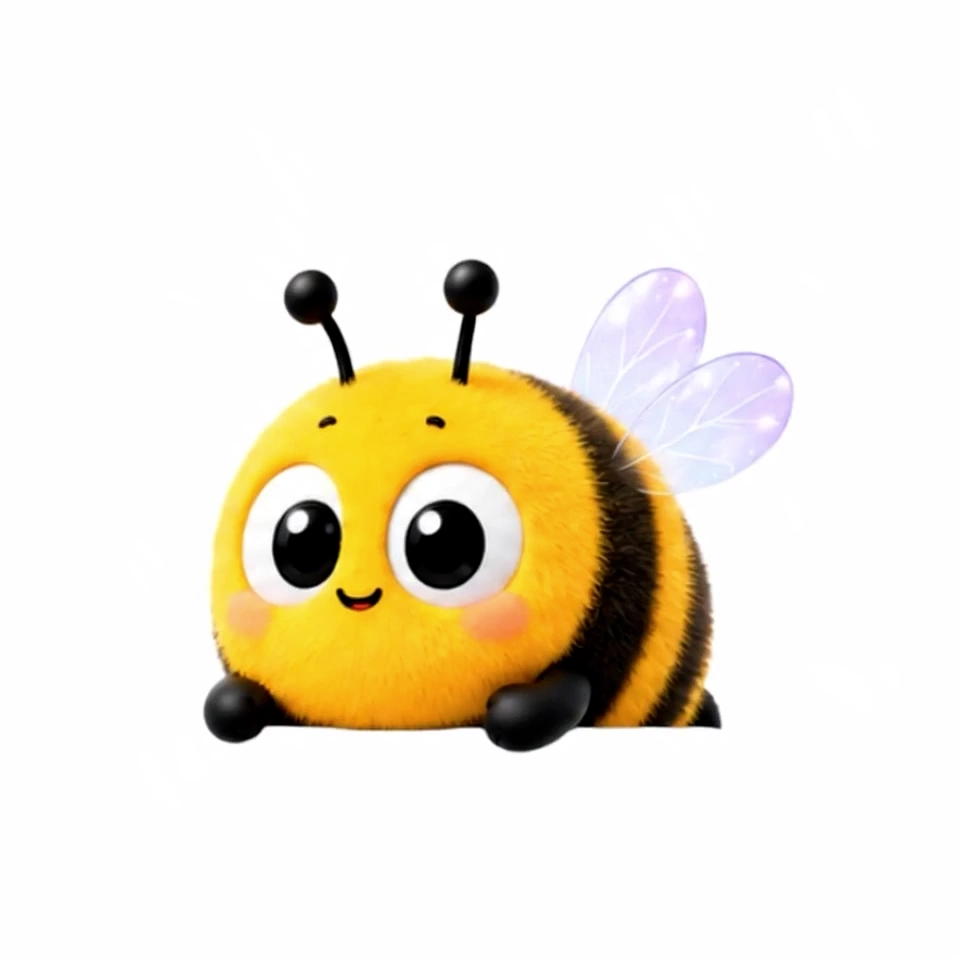
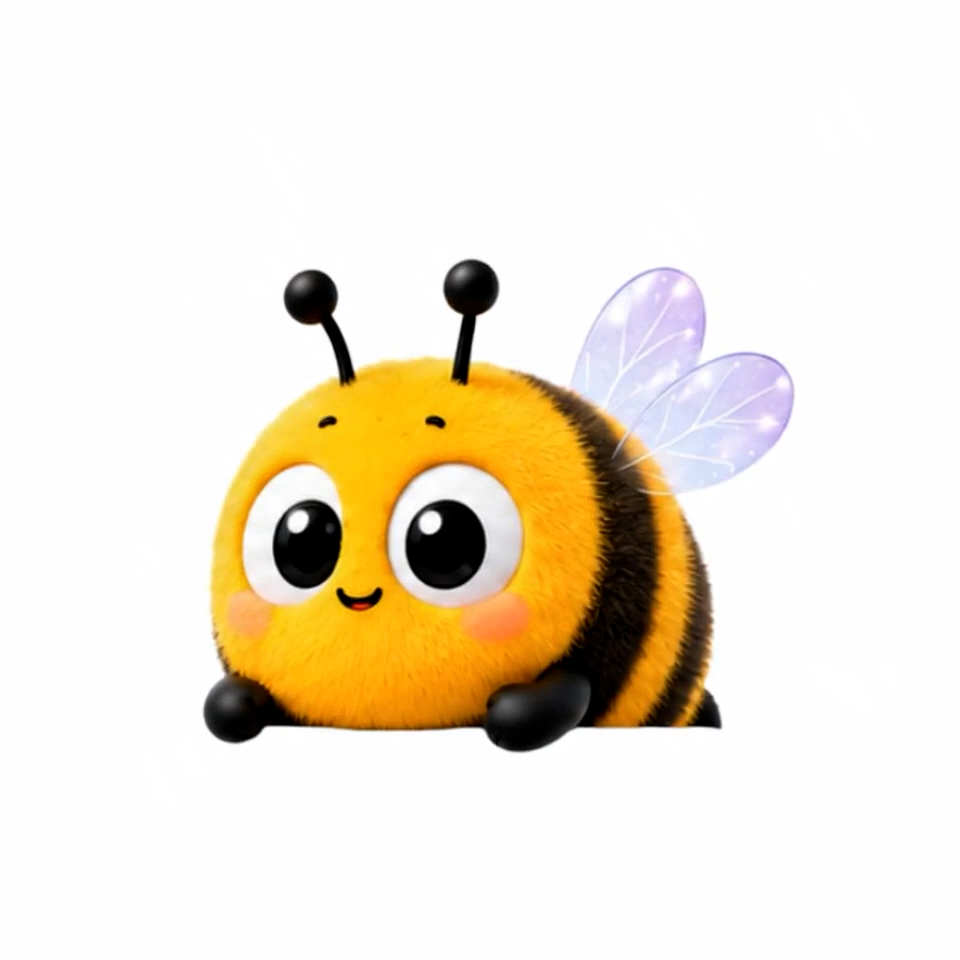
fix(web): 设置页搜索密钥改为可清空保存，工具模型配置支持删除并联动关闭开关；移除浏览器类型设置项；修复蜜蜂图片结尾帧变亮、蜜蜂动画时长不全的问题
# message auto-generated for no-merge-commit merge:
!6065 fix(web): 设置页搜索密钥改为可清空保存，工具模型配置支持删除并联动关闭开关；移除浏览器类型设置项；修复蜜蜂图片结尾帧变亮、蜜蜂动画时长不全的问题

From: @xiaoyao42

diff --git a/jiuwenswarm/channels/web/frontend/src/features/settings/modules/agent/AgentSettings.tsx b/jiuwenswarm/channels/web/frontend/src/features/settings/modules/agent/AgentSettings.tsx
@@ -22,14 +22,6 @@ import './AgentSettings.css';
 const keyFields = ['jina_api_key', 'bocha_api_key', 'perplexity_api_key', 'serper_api_key'] as const;
 const modalities = ['vision', 'audio', 'video'] as const;
 
-function isSearchKeyField(name: string): name is (typeof keyFields)[number] {
-  return keyFields.some((field) => field === name);
-}
-
-function isRequiredAgentConfigField(name: string): boolean {
-  return isSearchKeyField(name);
-}
-
 type SaveConfig = (updates: Record<string, string>, operation: string) => Promise<unknown>;
 
 function AgentConfigDialog({
@@ -63,17 +55,16 @@ function AgentConfigDialog({
     () =>
       fields.map((name) => {
         const key = name.includes('key');
-        const required = isRequiredAgentConfigField(name);
         return {
           name,
           label: t(`settingsPanel.fields.${name}.title`),
           component: 'input' as const,
           type: key ? ('password' as const) : ('text' as const),
+          required: true,
           passwordVisibilityLabels: key
             ? { show: t('settingsPanel.common.showValue'), hide: t('settingsPanel.common.hideValue') }
             : undefined,
           placeholder: t('config.enterValue'),
-          required,
         };
       }),
     [fields, t],
@@ -81,12 +72,15 @@ function AgentConfigDialog({
   const rules = useMemo(
     () =>
       Object.fromEntries(
-        fields.filter(isRequiredAgentConfigField).map((name) => [
+        fields.map((name) => [
           name,
           [
             {
+              trigger: 'blur' as const,
               validator: (value: unknown) =>
-                String(value ?? '').trim() ? undefined : t('settingsPanel.validation.required'),
+                typeof value === 'string' && value.trim().length > 0
+                  ? undefined
+                  : t('settingsPanel.validation.required'),
             },
           ],
         ]),
@@ -124,7 +118,7 @@ function AgentConfigDialog({
         onConfirm={() => void confirm()}
         onCancel={requestClose}
       >
-        <Form form={form} items={items} rules={rules} optionalText={t('common.optional')} testIdPrefix="settings-agent-config-dialog" />
+        <Form form={form} items={items} rules={rules} optionalText={t('common.optional')} />
         {saveError ? (
           <div className="settings-page__error" role="alert" data-testid="settings-agent-config-dialog-error">
             {saveError}
@@ -147,7 +141,23 @@ export function AgentSearchSettings({ disabled }: SettingsCustomItemProps) {
   const { isConnected } = useSettingsServices();
   const { values, save } = useSettingsSource();
   const [dialog, setDialog] = useState<{ titleKey: string; fields: readonly string[] } | null>(null);
+  const [clearing, setClearing] = useState<{ name: string; titleKey: string } | null>(null);
+  const [clearingBusy, setClearingBusy] = useState(false);
+  const [clearError, setClearError] = useState('');
   const saveConfig: SaveConfig = (updates, operation) => save(updates, operation);
+  const confirmClear = async () => {
+    if (!clearing) return;
+    setClearingBusy(true);
+    setClearError('');
+    try {
+      await save({ [clearing.name]: '' }, clearing.titleKey);
+      setClearing(null);
+    } catch (error) {
+      setClearError(error instanceof Error ? error.message : t('settingsPanel.feedback.saveFailed'));
+    } finally {
+      setClearingBusy(false);
+    }
+  };
   return (
     <>
       {keyFields.map((name) => (
@@ -164,11 +174,37 @@ export function AgentSearchSettings({ disabled }: SettingsCustomItemProps) {
           >
             {t('settingsPanel.common.configure')}
           </Button>
+          {values[name] ? (
+            <Button
+              disabled={disabled || !isConnected}
+              onClick={() => {
+                setClearError('');
+                setClearing({ name, titleKey: `settingsPanel.fields.${name}.title` });
+              }}
+              data-testid="settings-agent-key-clear-btn"
+              data-variant={name}
+            >
+              {t('settingsPanel.common.clear')}
+            </Button>
+          ) : null}
         </SettingRow>
       ))}
       {dialog ? (
         <AgentConfigDialog {...dialog} config={values} save={saveConfig} onClose={() => setDialog(null)} />
       ) : null}
+      <SettingsConfirmDialog
+        open={clearing !== null}
+        title={clearing ? t('settingsPanel.dialog.clearTitle', { name: t(clearing.titleKey) }) : ''}
+        message={clearing ? t('settingsPanel.dialog.clearConfirm', { name: t(clearing.titleKey) }) : ''}
+        confirming={clearingBusy}
+        error={clearError || undefined}
+        confirmLabel={t('settingsPanel.common.clear')}
+        confirmVariant="danger"
+        onConfirm={() => void confirmClear()}
+        onCancel={() => {
+          if (!clearingBusy) setClearing(null);
+        }}
+      />
     </>
   );
 }
@@ -181,10 +217,35 @@ export function AgentMediaSettings({ disabled }: SettingsCustomItemProps) {
     modality: MediaCapabilityModality;
     enableOnSave: boolean;
   } | null>(null);
+  const [deleteTarget, setDeleteTarget] = useState<MediaCapabilityModality | null>(null);
+  const [deleting, setDeleting] = useState(false);
+  const [deleteError, setDeleteError] = useState('');
   const [restartRequired, setRestartRequired] = useState(false);
   const saveConfig: SaveConfig = (updates, operation) => save(updates, operation);
   const handleSaveResult = (result: unknown) => {
     setRestartRequired(!wasConfigAppliedWithoutRestart(result));
+  };
+
+  const confirmDeleteModel = async () => {
+    if (!deleteTarget) return;
+    const enabledField = mediaCapabilityEnabledField(deleteTarget);
+    const updates: Record<string, string> = Object.fromEntries(
+      mediaCapabilityPersistenceFields(deleteTarget).map((field) => [field, '']),
+    );
+    if (parseConfigBoolean(values[enabledField])) {
+      updates[enabledField] = toConfigBoolean(false);
+    }
+    setDeleting(true);
+    setDeleteError('');
+    try {
+      const result = await saveConfig(updates, `settingsPanel.agent.${deleteTarget}`);
+      handleSaveResult(result);
+      setDeleteTarget(null);
+    } catch (error) {
+      setDeleteError(error instanceof Error ? error.message : t('settingsPanel.feedback.saveFailed'));
+    } finally {
+      setDeleting(false);
+    }
   };
 
   const toggleCapability = async (modality: MediaCapabilityModality, nextEnabled: boolean) => {
@@ -241,6 +302,18 @@ export function AgentMediaSettings({ disabled }: SettingsCustomItemProps) {
                       data-testid="settings-agent-modality-edit-btn"
                       data-variant={modality}
                     />
+                    <Button
+                      variant="quiet"
+                      size="sm"
+                      icon={<settingsActionIcons.delete aria-hidden />}
+                      title={t('common.delete')}
+                      aria-label={`${t('common.delete')} ${name}`}
+                      disabled={disabled || !isConnected || busy}
+                      onClick={() => {
+                        setDeleteError('');
+                        setDeleteTarget(modality);
+                      }}
+                    />
                   </div>
                 </div>
               ) : null
@@ -267,6 +340,21 @@ export function AgentMediaSettings({ disabled }: SettingsCustomItemProps) {
           onClose={() => setDialog(null)}
         />
       ) : null}
+      <SettingsConfirmDialog
+        open={deleteTarget !== null}
+        title={t('settingsPanel.agent.deleteModelTitle')}
+        message={
+          deleteTarget
+            ? t('settingsPanel.agent.deleteModelConfirm', { name: t(`settingsPanel.agent.${deleteTarget}`) })
+            : ''
+        }
+        confirming={deleting}
+        error={deleteError}
+        onConfirm={() => void confirmDeleteModel()}
+        onCancel={() => {
+          if (!deleting) setDeleteTarget(null);
+        }}
+      />
     </>
   );
 }

diff --git a/jiuwenswarm/channels/web/frontend/src/App.tsx b/jiuwenswarm/channels/web/frontend/src/App.tsx
@@ -3323,35 +3323,37 @@ const showWorkspaceDivider = effectiveTeamAreaExpanded && !showConversationNotFo
           </div>
         )}
         {activeNav === 'connectorMarket' && (
-          <div className="app-section">
-            <ConnectorMarketPanel
-              applicationPlugins={applicationPlugins}
-              applicationPluginsLoading={applicationPluginState.loading}
-              applicationPluginsError={applicationPluginState.error}
-              onRefreshApplicationPlugins={applicationPluginState.refresh}
-              onCreateViaChat={() => window.dispatchEvent(new CustomEvent('jiuwen:new-conversation', {
-                detail: {
-                  skillName: 'plugin-creator',
-                  suffixText: t('connectorMarket.chatPrompts.createPlugin'),
-                  metadata: { scene: 'create_plugin' },
-                },
-              }))}
-              onUseExample={(initialInputValue, mcpName) =>
-                requestSessionNavigation('new', { initialInputValue, initialEnabledMcps: [mcpName], forceMode: 'agent' })
-              }
-              onUsePluginExample={(initialInputValue, pluginId) =>
-                requestSessionNavigation('new', { initialInputValue, initialEnabledPlugins: [pluginId], forceMode: 'agent' })
-              }
-              onUseExtension={({ kind, id }) =>
-                requestSessionNavigation(
-                  'new',
-                  kind === 'plugin'
-                    ? { initialEnabledPlugins: [id], forceMode: 'agent' }
-                    : { initialEnabledMcps: [id], forceMode: 'agent' },
-                )
-              }
+          <div className="app-page-body">
+            <div className="page-content">
+              <ConnectorMarketPanel
+                applicationPlugins={applicationPlugins}
+                applicationPluginsLoading={applicationPluginState.loading}
+                applicationPluginsError={applicationPluginState.error}
+                onRefreshApplicationPlugins={applicationPluginState.refresh}
+                onCreateViaChat={() => window.dispatchEvent(new CustomEvent('jiuwen:new-conversation', {
+                  detail: {
+                    skillName: 'plugin-creator',
+                    suffixText: t('connectorMarket.chatPrompts.createPlugin'),
+                    metadata: { scene: 'create_plugin' },
+                  },
+                }))}
+                onUseExample={(initialInputValue, mcpName) =>
+                  requestSessionNavigation('new', { initialInputValue, initialEnabledMcps: [mcpName], forceMode: 'agent' })
+                }
+                onUsePluginExample={(initialInputValue, pluginId) =>
+                  requestSessionNavigation('new', { initialInputValue, initialEnabledPlugins: [pluginId], forceMode: 'agent' })
+                }
+                onUseExtension={({ kind, id }) =>
+                  requestSessionNavigation(
+                    'new',
+                    kind === 'plugin'
+                      ? { initialEnabledPlugins: [id], forceMode: 'agent' }
+                      : { initialEnabledMcps: [id], forceMode: 'agent' },
+                  )
+                }
               />
             </div>
+          </div>
         )}
       </main>
 

diff --git a/jiuwenswarm/channels/web/frontend/src/components/ChatPanel/index.tsx b/jiuwenswarm/channels/web/frontend/src/components/ChatPanel/index.tsx
@@ -814,21 +814,22 @@ function scrollToBottom(el: HTMLDivElement): void {
   el.scrollTop = Math.max(0, el.scrollHeight - el.clientHeight);
 }
 
+const BEE_ANIMATION_DURATION = 4536;
+
 function BeeBanner({ className, altText, onTrigger }: { className: string; altText: string; onTrigger: () => void }) {
   const [isPlaying, setIsPlaying] = useState(false);
-  const playingRef = useRef(false);
   const timerRef = useRef<ReturnType<typeof setTimeout> | null>(null);
 
   const handleMouseEnter = useCallback(() => {
-    if (playingRef.current) return;
-    playingRef.current = true;
+    if (timerRef.current) {
+      clearTimeout(timerRef.current);
+    }
     setIsPlaying(true);
     onTrigger();
-    if (timerRef.current) clearTimeout(timerRef.current);
     timerRef.current = setTimeout(() => {
-      playingRef.current = false;
       setIsPlaying(false);
-    }, 3000);
+      timerRef.current = null;
+    }, BEE_ANIMATION_DURATION);
   }, [onTrigger]);
 
   useEffect(() => {

diff --git a/jiuwenswarm/channels/web/frontend/src/features/settings/modules/browser/definition.ts b/jiuwenswarm/channels/web/frontend/src/features/settings/modules/browser/definition.ts
@@ -12,16 +12,6 @@ export const browserModule: SettingsModuleDefinition = {
       items: [
         { id: 'browser-path', component: 'input', key: 'chrome_path' },
         {
-          id: 'browser-type',
-          component: 'select',
-          key: 'browser_type',
-          options: [
-            { value: 'auto', labelKey: 'browser.browserTypeAuto' },
-            { value: 'chrome', labelKey: 'browser.browserTypeChrome' },
-            { value: 'msedge', labelKey: 'browser.browserTypeEdge' },
-          ],
-        },
-        {
           id: 'browser-run-mode',
           component: 'select',
           key: 'headless',

diff --git a/jiuwenswarm/channels/web/frontend/src/components/SkillPanel/index.tsx b/jiuwenswarm/channels/web/frontend/src/components/SkillPanel/index.tsx
@@ -845,11 +845,9 @@ export function SkillPanel({
       const seq = ++hubFetchSeqRef.current;
       setHubLoading(true);
       try {
-        // 后端 PR#5336: skills.swarmskillshub.recommend → POST /api/v1/recommend
-        // 支持 category_id、plugin_type、top_k、market_url 参数
+        // Hub 地址由后端统一配置，确保推荐列表与安装使用同一个 Hub。
         const params = withSession({
           top_k: 50,
-          market_url: 'http://119.8.233.112:8080',
           ...(category !== 'all' ? { category_id: category } : {}),
         });
         const data = await webRequest<{

diff --git a/jiuwenswarm/channels/web/frontend/src/features/settings/services/settingsSourceContract.ts b/jiuwenswarm/channels/web/frontend/src/features/settings/services/settingsSourceContract.ts
@@ -5,7 +5,6 @@ type SimpleSettingComponent = 'switch' | 'select' | 'input';
 
 const BROWSER_SETTING_COMPONENTS = new Map<string, SimpleSettingComponent>([
   ['chrome_path', 'input'],
-  ['browser_type', 'select'],
   ['headless', 'select'],
 ]);
 const LOCALE_SETTING_COMPONENTS = new Map<string, SimpleSettingComponent>([['preferred_language', 'select']]);

diff --git a/tests/unit_tests/agentserver/test_skill_manager_team_skills_hub.py b/tests/unit_tests/agentserver/test_skill_manager_team_skills_hub.py
@@ -651,6 +651,14 @@ def test_team_skills_hub_allowed_download_hosts_support_wildcard_region(monkeypa
     )
 
 
+def test_team_skills_hub_default_allowed_download_hosts_include_official_test_bucket(monkeypatch):
+    monkeypatch.delenv("TEAM_SKILLS_HUB_ALLOWED_DOWNLOAD_HOSTS", raising=False)
+    manager = TeamSkillsHubHarnessSkillManager(workspace_dir="dummy")
+    manager.call_assert_team_skills_hub_download_url_allowed(
+        "https://openjiuwen-market-test.obs.ap-southeast-1.myhuaweicloud.com/plugins/demo.zip"
+    )
+
+
 def test_safe_extract_zip_to_dir_rejects_zip_slip(tmp_path):
     buf = io.BytesIO()
     with zipfile.ZipFile(buf, "w", zipfile.ZIP_DEFLATED) as zf:

diff --git a/jiuwenswarm/server/runtime/skill/skill_manager.py b/jiuwenswarm/server/runtime/skill/skill_manager.py
@@ -138,6 +138,7 @@ _TEAM_SKILLS_HUB_MARKET_TIMEOUT: float = float(os.environ.get("TEAM_SKILLS_HUB_T
 _TEAM_SKILLS_HUB_BASE_URL_DEFAULT = "https://teamskills.openjiuwen.com"
 _TEAM_SKILLS_HUB_DEFAULT_ALLOWED_DOWNLOAD_HOSTS: tuple[str, ...] = (
     "openjiuwen-market.obs.*.myhuaweicloud.com",
+    "openjiuwen-market-test.obs.*.myhuaweicloud.com",
     "127.0.0.1",
     "localhost",
 )
